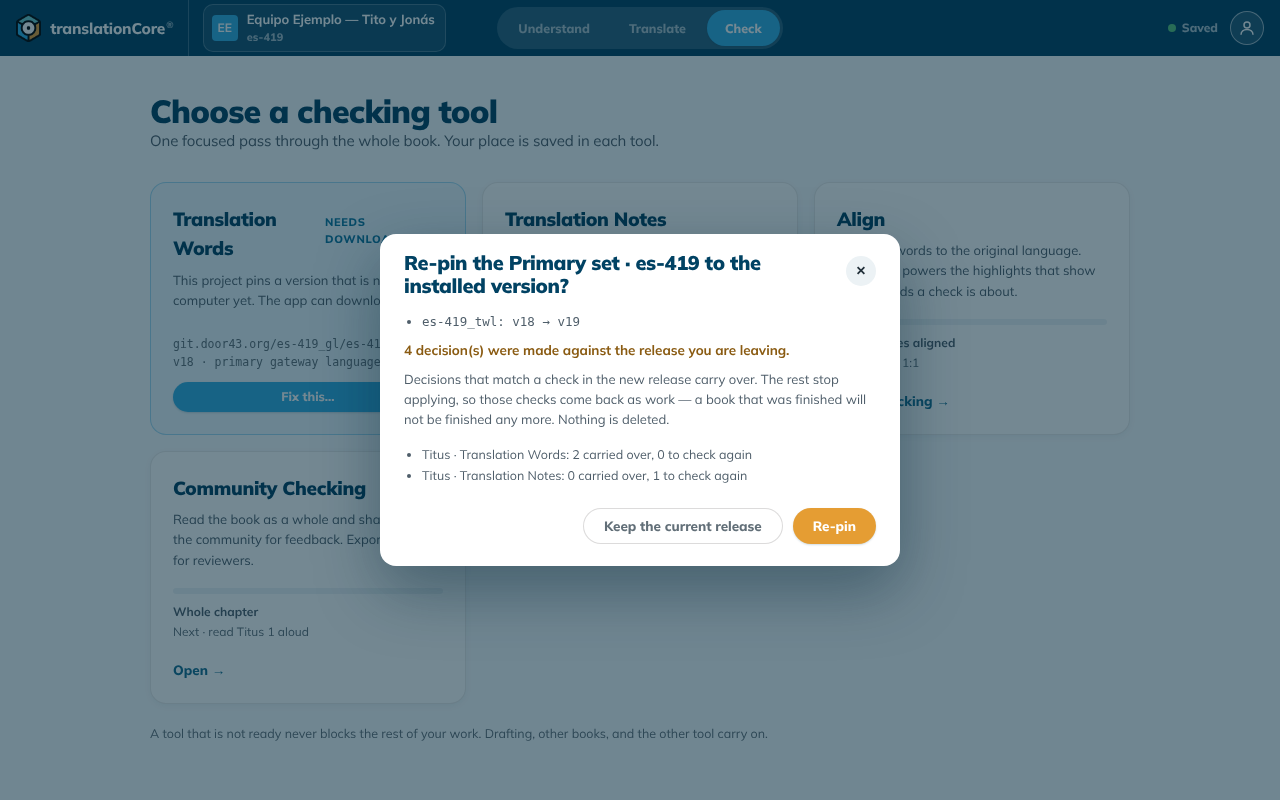
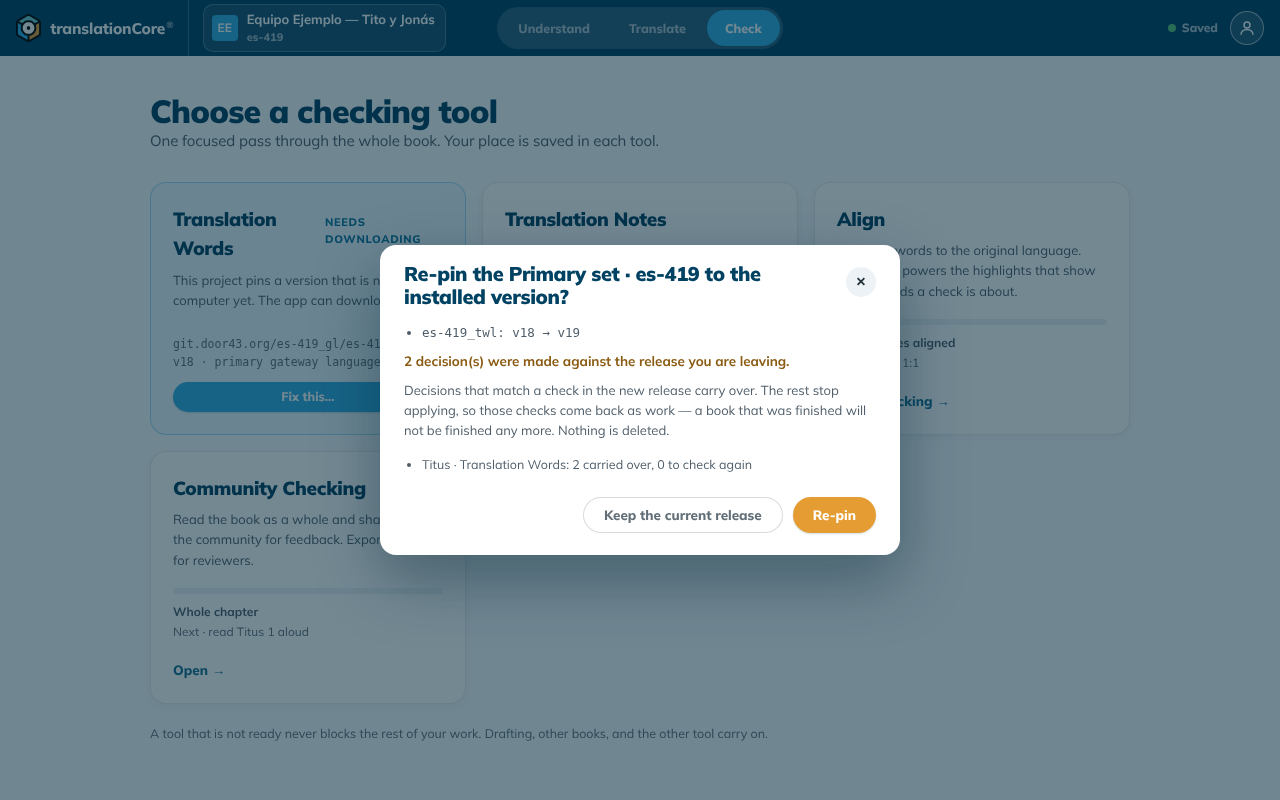
Compute M9's upgrade confirmations by tC4's own rules, so a case shows work only for the checks its offer moves
The verification found that upgrade-repin, a re-pin that moves only the es-419 TWL pin, showed
a Translation Notes row with a check to redo and "4 decision(s)": its consequences and plan were
the recorded gateway change's, copied whole. tC4 builds them with planResourcesChange over the
pins after the offer (state.jsx:1521-1527, 4425-4482), and a TWL move leaves the tN pin and its
checks alone, so tC4 cannot draw that row. The same copy had two more states tC4 cannot reach:
upgrade-set-harmless was green over a move of the tN and TWL pins that the sample's decisions
were made against, and upgrade-set-blocked gave its blocked entry a carry-over row, which
gatewayChangePlan never plans.

Every M9 set preview now comes from one builder (setPreview) that uses tC4's own code, bundled
by patch-kit.mjs: applyUpgrade for the pins after the offer, consequencesOfGatewayChange over
the sample's stored decision files (read as storedGatewayDecisions reads them) for the
consequences, reposOfSet for the offers, and a plan row for each affected (tool, book) that is
not blocked. Only the carry-over counts of a row are still borrowed from the recorded gateway
change, because they need the new release's checks and the mock holds no newer release.
- upgrade-repin: one row, Titus's Translation Words, 2 decisions.
- upgrade-set-harmless: the offer moves es-419 tA alone, which no check resolves through.
- upgrade-set-blocked: Titus is blocked for Translation Words because the es-419 tW articles
[…]

Changed region(s): [[0.2812, 0.2812, 0.7188, 0.7188]]

diff --git a/docs/APP-DESIGN.md b/docs/APP-DESIGN.md
@@ -2494,7 +2494,7 @@ This breakdown was checked again after the red team *(A-16, A-17)*:
 | A5 Shell chrome and static surfaces | `App`, TopBar (X1), save indicator (X2), account menu (X6), M15, M16 with preview, M17 with License, M14 compose, S13 with vendored help pages (AD29) and the page-swap shim, S15 | A3, A4a, A4b, A6b | — | scenarios: account-menu keyboard, M16 preview and restore, help a–i (no internet case yet) | dialog DOM parity for `account-menu`, `app-language`, `help`, `about`, `feedback` (layer 2, through A6b) |
 | A6a Parity harness: tC4 side *(A-17)* | the `capture.mjs` split (`screens`, `driver`, `observe`, `env-tc4`); sha256 per PNG in `manifest.json` and its check; tC4 DOM snapshots for all 62 screens; `state.mjs` from the repository's fixtures | — (the tC4 checkout) | — | `state_from_repo_equals_state_from_tc4`; the baseline test fails on a changed PNG | a tC4 recapture after the split has identical hashes; the 62 DOM snapshots are committed |
 | A6b Parity harness: Rust side and gate *(A-17)* | `env-rust.mjs` (`tc4 serve`, token header, `test/reset`, `test/quiet`, event stream left out of `trackRequests`); the four-layer compare tool; `masks.json`, `report.json`, `residuals.json`; `screen_record.rs` *(A6b: built. D1: the four-layer compare is Rust code inside the gate, `crates/tc-ui/tests/screen_record/`, which recomputes every layer from the committed captures on each `cargo test` and fails when the committed `report.json` differs (`UPDATE_REPORT=1` rewrites it), so a planted difference fails `cargo test` itself and the report cannot be stale; Node only captures (`capture-rust.mjs`, `behaviour.mjs`) (§7.1, §7.5). D2: a pixel counts when any channel byte differs, which is pixelmatch's count at threshold 0 on opaque screenshots and equalled it on all 62 cloud/Linux pairs (§7.3). D3: the committed baseline did not reproduce on the Linux PC (57 of 62 PNGs differ by fonts, no DOM differs), so A6b recaptured it there, and both captures record a machine fingerprint (platform, Chromium, the sha256 of the sorted `fc-list` lines); pixels compare only between equal fingerprints (§7.3, §7.9, risk 8). D4: generated ids are `tc-(f\|g\|dlg\|cfm\|rg)N`, tC4's five counters; `tc-[fg]N` missed `tc-dlg`, on every dialog (§7.3). D5: only same-origin asset paths are reduced to their file name, so a wrong external link still shows (§7.3). D6: two more statuses, `unported` (with the unit that captures each missing layer, from §7.6) and `failed` (nothing excuses it), and `parity/app/units.json` lists the landed units because CI checks out one commit; the gate fails a layer still missing after its unit landed (§7.5). D7: `pending_until` of an M+S screen is its Recapture unit; §7.6's notes gave it for two of the five (§7.5, §7.6). D8: a DOM-first capture compares only the subtree that `scopes.json` names, because the Home behind its dialog is not ported until its pixels unit (§7.3, §7.6). D9: the Rust `home()` is `test/reset`, `prefs/setLocale` for another language, cleared storage and a load through `about:blank`, and `settle` also asks `test/quiet` and `__tcIdle`, polling them once busy (§7.1). D10: the context aborts every request to another origin, so the token in `extraHTTPHeaders` never leaves the machine (§7.1). D11: `open-door43-internet-consent` shows the Q3 note behind its scrim, so it now cites Q3 in the baseline and the `q3-where` mask covers it: nine `rebuildDiffers` screens, eleven masked screens (§7.3, §7.6). D12 (verification): a residual names exactly the layers its row differs in, behaviour among them, so a later difference on another layer of an explained row still fails; and a Rust screenshot of another size than tC4's, a shot at the wrong viewport, is a failed capture that no residual excuses (§7.5). Masks are taken out before ids are renumbered, behaviour node numbers are renumbered per side, the masks' elements take no part in a sequence, `syncToast` is compared field by field (each with a planted test that fails when the rule is broken), and a diff image must be committed and equal what the gate draws. No baseline screen can be captured on the Rust side before B2's Home, so all 62 rows are `unported`; the planted tests prove the gate on the real baseline. Evidence: `docs/evidence/parity-harness-2026-10-18.md`.)* | A6a, A2, A4a | — | the gate fails on a planted pixel, DOM and meaning difference; a screen that reaches the settle deadline fails | the gate runs in `cargo test`, and the planted differences fail it |
-| A7 tC4 view-state gallery | Vite app with the `state.jsx` stub; case format; action recorder; the §7.4 cases *(A7: built. D1: a case starts from a recorded state, the whole `s` of real tC4 read from its React tree after the driver took it against the baseline's mock to a baseline screen or a few steps further, with the replies of the read-only actions the view draws; a patch, tC4's reducer `set` patch, is written only where the mock cannot go, from recorded values and tC4's own functions (`parity/view-gallery/patch-kit.mjs`), never as free text: 23 states, 68 cases in the 18 groups of §7.4's table, 19 drawn from a recorded state with at most view-local steps and 49 patched, `cases.json` naming the keys each patch sets (§7.4, risk 17). D2: calibration draws every recorded state with no patch and compares it with real tC4's own capture at that moment: all 23 equal, pixels byte for byte and DOM after the gate's id renumbering, so the stub adds nothing; focus is the one thing a state drawn afresh lacks, so 11 states carry steps that put it back where the route left it (`refocus` by script with no keyboard ring, or `blur`), replayed by calibration and by the unpatched cases on them (§7.4). D3: the gallery is built by the tC4 clone's own Vite, React plugin, node polyfills and React through a `node_modules` link, in release mode with tC4's base and defines; its CSS is byte-identical to tC4's release build (§7.4). D4: no tc-api reply exists at A7 (`MemoryBackend` is B1b's and a screen's view types its unit's), so A7 defines the slot `parity/view-gallery/replies/<case>.json` and the porting unit fills it (§7.4). D5: a case row names its §7.4 group's DOM and pixels units, has no meaning layer, compares a DOM-first case within its `scope`, compares pixels with the gallery capture's own machine, and is checked by sha256 with stray files refused; new gate rules `CaseGroup`, `CaseScope`, `DuplicateRow` with eight planted tests (§7.5). D6: the stub answers the two actions a view calls while drawing (`sourceGateways`, `installedCountFor`) with tC4's own code; every other action is recorded per case (`actions/<case>.json`) and answered by the case's replies or not at all. D7: before mounting, the capture clicks a full-window layer at the pointer's resting point, so focus a view moves on mount is not drawn as keyboard focus, and the page flags the mount from an effect after React's first commit, so no step races a dialog's mount focus. D8: M18 is drawn only by the section editor, so its group names B4b (B4a's row). D9: `capture-rust.mjs` keeps case entries and captures cases with `--case`; `measure-masks.mjs` leaves case rectangles to the gallery's capture. One value of tC4's state is not JSON, the sign-in step's identity Symbol (`state.jsx` `si.opened`), so it is carried as a tag and revived as a new Symbol, never dropped. Every case renders with no page error, console error, view error or request, two captures are byte-identical, and a fresh capture equals the committed record; `report.json` has 130 rows, all unported. Evidence: `docs/evidence/view-gallery-2026-10-18.md`.)* | A6a, A6b | — | every case renders with no console error; two runs are byte-identical | the cases are rows in `report.json` |
+| A7 tC4 view-state gallery | Vite app with the `state.jsx` stub; case format; action recorder; the §7.4 cases *(A7: built. D1: a case starts from a recorded state, the whole `s` of real tC4 read from its React tree after the driver took it against the baseline's mock to a baseline screen or a few steps further, with the replies of the read-only actions the view draws; a patch, tC4's reducer `set` patch, is written only where the mock cannot go, from recorded values and tC4's own functions (`parity/view-gallery/patch-kit.mjs`), never as free text: 23 states, 68 cases in the 18 groups of §7.4's table, 19 drawn from a recorded state with at most view-local steps and 49 patched, `cases.json` naming the keys each patch sets (§7.4, risk 17). D2: calibration draws every recorded state with no patch and compares it with real tC4's own capture at that moment: all 23 equal, pixels byte for byte and DOM after the gate's id renumbering, so the stub adds nothing; focus is the one thing a state drawn afresh lacks, so 11 states carry steps that put it back where the route left it (`refocus` by script with no keyboard ring, or `blur`), replayed by calibration and by the unpatched cases on them (§7.4). D3: the gallery is built by the tC4 clone's own Vite, React plugin, node polyfills and React through a `node_modules` link, in release mode with tC4's base and defines; its CSS is byte-identical to tC4's release build (§7.4). D4: no tc-api reply exists at A7 (`MemoryBackend` is B1b's and a screen's view types its unit's), so A7 defines the slot `parity/view-gallery/replies/<case>.json` and the porting unit fills it (§7.4). D5: a case row names its §7.4 group's DOM and pixels units, has no meaning layer, compares a DOM-first case within its `scope`, compares pixels with the gallery capture's own machine, and is checked by sha256 with stray files refused; new gate rules `CaseGroup`, `CaseScope`, `DuplicateRow` with eight planted tests (§7.5). D6: the stub answers the two actions a view calls while drawing (`sourceGateways`, `installedCountFor`) with tC4's own code; every other action is recorded per case (`actions/<case>.json`) and answered by the case's replies or not at all. D7: before mounting, the capture clicks a full-window layer at the pointer's resting point, so focus a view moves on mount is not drawn as keyboard focus, and the page flags the mount from an effect after React's first commit, so no step races a dialog's mount focus. D8: M18 is drawn only by the section editor, so its group names B4b (B4a's row). D9: `capture-rust.mjs` keeps case entries and captures cases with `--case`; `measure-masks.mjs` leaves case rectangles to the gallery's capture. D10 (verification): an M9 case's confirmation of a set upgrade or re-pin is computed by tC4's own rules from the offer: the pins after it (`applyUpgrade`) and the consequences (`consequencesOfGatewayChange` over the sample's stored decision files), so a row appears exactly for a check whose resource the offer moves, and a carry-over row for each one not blocked; a test holds the drawn confirmations to that rule. Three things are taken, not drawn: each new release covers the books of the one it replaces, the machine holds the releases the checks resolve through unless the case blocks one, and the carry-over counts of each row, which need the new release's checks, are borrowed from the recorded gateway change for the same (tool, book), since the mock holds no newer release (risk 17). One value of tC4's state is not JSON, the sign-in step's identity Symbol (`state.jsx` `si.opened`), so it is carried as a tag and revived as a new Symbol, never dropped. Every case renders with no page error, console error, view error or request, two captures are byte-identical, and a fresh capture equals the committed record; `report.json` has 130 rows, all unported. Evidence: `docs/evidence/view-gallery-2026-10-18.md`.)* | A6a, A6b | — | every case renders with no console error; two runs are byte-identical | the cases are rows in `report.json` |
 | A8 Door43 account and internet consent | `account` service: sign-in with `mint_token` against tc-door43-fake, keep, resume, forget; `cancelSignIn`; "no keychain"; M12; the internet question flow (`InternetFlow`, `Pending`) | A3, A5 | — | sign-in cases of J11; internet-consent a–j that need no project | DOM parity for `share-signin`, `share-internet-consent`, `open-door43-internet-consent` |
 | A9 First-launch seeding | the join of A2 and A3 (order paragraph), if no earlier unit made it; **tc-resources**: progress and cancel hooks in bundle seeding, with that crate's own tests; the `Seed` job; `Startup` events; `/prepare.html` with English text and the other nine languages listed as pending (Q-10) *(A-17, A-32)* *(A9: built. D1: the plan is made at start, from receipts alone, inline in `App::start`, so `hello.startup` is exact from the first request (`Ready`, with no job, frame or report, when nothing is missing; `Preparing { 0, total }`; `Failed`), and without `--bundle` nothing is seeded. D2: tc-resources gets `seed_plan`, `seed(plan, &dyn SeedWatch)`, `Seeding::{Finished, Cancelled}` and `content_files_written()`; `seed_from` is the same two steps with a watch that never stops. D3: the count is content files, not tC4's 16 resources (declared difference, §3.6). D4: the `Startup` frames follow the `Seed` job's reports through `JobRegistry::watch` and only move forward, and the ring keeps the newest `Startup(Preparing)`. D5: Close is a quit, and `App::quit` cancels the seed and waits for it; a stop leaves whole copies, and the copy being made stays in `.partial/` until the next start. D6: a bundled install that fails its own check, a copy that cannot be trusted, a bundle that cannot be read and a bundle that lacks an install its manifest lists (D12) end the start `Failed`, and the window shows tC4's failure words with the reason; tC4 shows a native error box and exits, so this is a declared difference, and the screenshot goes to the owner under Q-9; tc-resources keeps its rule that a refused install does not stop `seed_from`. D7: `/prepare.html` is one file, `crates/tc-ui/app/prepare.html`, holding the `prepare.*` text of all ten languages (nine pending, Q-10) and one script that its own CSP allows by hash; `crates/tc-ui/tests/prepare_page.rs` keeps both equal to the rebuild files. D8: `tc4 serve --bundle <dir>`, and with `test-hooks` `--test-seed-pace <ms>`. D9: the installer still ships an expanded store, built from `bundle/en` by `crates/tc-app/examples/bundle_store`, which also writes the store's `BUNDLE-MANIFEST.json` (D12); seeding from the archives stays DELTA §3.6 item 3. D10: the shell (G1) opens the window only when `hello.startup` is still `Preparing` 300 ms after launch, so a repeat launch shows none, a declared difference from tC4, which shows it on every launch; A5's `App` sends a page that boots while it is not `Ready` to `/prepare.html` (§5.3). D11 *(added after the first verification)*: `App::start` opens the resource store with `ResourceStore::open_keeping_leftovers`, so a `.partial/` leftover that cannot be removed is a `resources` report and not a refusal to start (§4.9); `ResourceStore::open` still refuses it for other callers, except a leftover that a scanner still holds after the waits of STORAGE §3.7, which it keeps for the next open. D12 *(added after the first verification)*: a bundle says what it holds. The build of the bundle writes `BUNDLE-MANIFEST.json`, naming each install by repository and commit, and the plan compares it with the folders (§4.6): a listed install that is neither in the bundle nor on this computer, or a folder with no usable manifest, ends the start `Failed` at once and copies nothing. tC4 does the same with its `BUILD-MANIFEST.json` (`tC4:scripts/desktop-bootstrap.cjs:230-290`), so this is no declared difference; without it a lost install folder, or a `--bundle` that named the wrong folder, ended `Ready` and opened projects that could not find their helps. D13 *(added when A9 merged with windows-hazards)*: a seeded copy is an install like a download, through the same `install_until`: every file name is checked by `tc_door43::check_names` (STORAGE §3.7), a file is written with `create_new`, and the rename into place waits while a scanner holds a file, unless the same install has landed meanwhile. A bundled install with a file name Windows would rename or merge is therefore refused, left out of the store and named in `refused`, which ends the start `Failed` (D6). `seed_plan` runs the same check of paths and names on the receipt of each bundled install it will copy, and refuses it the same way before any of its files is read, so a device name in a receipt is never opened as the device and a `../` path never reads a file outside the bundle. The staging folder of an install that `create_new` refuses is removed with the same waits as the rename. An install that finds the same install landed first tries once to remove its staging folder and does not wait, since the install it lost to is in place; what a scanner holds then stays in `.partial/` until a later open removes it. `open_keeping_leftovers` removes `.partial/` with the same waits, and a leftover a scanner holds even then comes back as a `resources` report (D11). Evidence: `docs/evidence/first-launch-seeding-2026-10-18.md` (on the Linux PC: first launch 14.8 s median, repeat launch 4.1 ms, `App::quit` in a seed 4.6 ms; the Windows figure is G1's and G2's) and `crates/tc-ui/app/prepare-smoke.mjs`. A4a merged after A9 and added to `crates/tc-ui/build-app.sh` the copy of `app/prepare.html` to `OUT/prepare.html`, which A4a's smoke checks byte for byte through `tc4 serve`; A4a's key scan checks only that each key the Rust source names exists, never that each rebuild key is used, so the page's `prepare.*` keys need no entry there, and `prepare_page.rs` keeps them equal to the rebuild files.)* | A2, A3 | Q-10 for the translations | seeding count targets (PERF:133-138); cancel leaves a resumable state; tc-resources' tests stay green | Playwright: the window shows "Preparing resources: n of total" and Close cancels |
 | A10 tc-export print model *(A-17)* | the **new crate `tc-export`**, pure, over tc-obs: ports of `printedItems` (`tC4:src/data/bookModel.js`), the print parts (`tC4:src/views/print/PrintBook.jsx:44-71`) and `PrintStories.jsx`, and the page setup; a typed model, no HTML yet. A book's input is its verse rows (label, drafted, shown text), the rows the editor's `VerseRow` is built from, not a second reading of the USFM: tC4 builds the editor and the PDF from one `bookModel` so that both state a verse the same way (`tC4:src/data/bookModel.js:1-4`), and the port of tC4's shown text is tc-usfm's `shown_text_v1`. tc-usfm joins with D2's USFM producers. Declared difference: the "Incomplete draft" notice shows whenever a verse prints as not yet drafted (`has_undrafted`); tC4 asks only for an undrafted verse (`tC4:src/views/CommunityChecking.jsx:182`), so a verse drafted with a footnote alone prints "[ verse not yet drafted ]" with no notice to explain it | — | — | vectors recorded by running tC4's functions in node on the Titus, Jonah and OBS samples, tC4's PDF test cases and generated books and story sets, compared as the markup tC4's print components render, the preview's split pages included; a proptest that every drafted verse appears once, and one for frames | the vectors are equal |
@@ -2649,7 +2649,11 @@ last.
     tC4 side a case starts from a state recorded from tC4 itself, and calibration shows the
     gallery draws each recorded state as tC4 did; only the 49 patched cases of 68 hold values
     written for them, each built with tC4's own functions where one exists, and `cases.json`
-    names the keys each patch sets *(A7)*.
+    names the keys each patch sets *(A7)*. The carry-over counts of M9's set upgrades and
+    re-pin are borrowed from the recorded gateway change, an operation that moves the same
+    checks to other releases, because the mock holds no newer release to derive them from, so
+    C8's replies for those cases carry the same borrowed counts, and a count that differs there
+    is a fixture difference, not a port bug.
 18. **Storage requests outside every task text.** R1, R4, R5, R14, R16 and R19 to R23 are in no
     storage unit's task text today. If they stay out, C0 is larger, R9's numbers may come late,
     and three fallbacks (R20, R21, R23) are weaker than the requests. Only the owner can add them

diff --git a/docs/evidence/view-gallery-2026-10-18.md b/docs/evidence/view-gallery-2026-10-18.md
@@ -118,3 +118,31 @@ The distinct actions of each group's traces at `mount` (no case's steps call an 
   with exactly one of mine, in any order.
 - `capture-rust.mjs` dropped case entries when it rewrote `captures.json`, and
   `measure-masks.mjs` crashed on a rectangle named after a case; both are fixed.
+
+## After the verification (2026-10-19)
+
+The verification found that `upgrade-repin` showed a Translation Notes row with work to redo for
+a re-pin that moves only the TWL pin: its consequences and plan were the recorded gateway
+change's, copied whole. The same copy made `upgrade-set-harmless` green over a move of the tN and
+TWL pins that the sample's decisions were made against, and gave the blocked entry of
+`upgrade-set-blocked` a carry-over row, which tC4 never plans for a blocked entry. Each M9 set
+preview is now computed by tC4's own rules (`patch-kit.mjs` bundles `consequencesOfGatewayChange`,
+`applyUpgrade`, `reposOfSet` and `TOOL_SLOT`); only the carry-over counts of a row are borrowed
+from the gateway change, and the design says so (APP-DESIGN §10 A7 D10, risk 17).
+
+- `upgrade-set-harmless` now moves es-419 tA alone, which no check resolves through;
+  `upgrade-set-blocked` blocks Titus for Translation Words, whose es-419 tW articles are not on
+  the machine (tC4 #643), with no carry-over row for it.
+- tC4's rule over `fixtures/tc4/sample-burrito/ingredients/checking` gives exactly the recorded
+  gateway change's consequences, so the patches read the files tC4 counted.
+- `capture.mjs` (every case, load 5.0): 23 of 23 states calibrated; the PNG and DOM files of
+  `upgrade-repin`, `upgrade-set-harmless` and `upgrade-set-blocked` changed and every other file
+  is byte-identical, `upgrade-set` and `upgrade-set-error` included (their previews differ only
+  in values no view draws: `next`, and the fallback offer's `current`). The six files went from
+  591,445 to 584,667 bytes.
[2 lines of base64/hex data omitted]
+- `node --test parity/view-gallery/view-gallery.test.mjs` with `TC4_ROOT`: 19 tests, 19 passed in
+  6 min 22 s (two captures byte-identical, the first equal to the committed record); without it,
+  14 passed and 5 skipped. `cargo test -p tc-ui --test screen_record`: 43 tests.
+- Commit `baee60f`'s message says "nine planted tests"; it added eight, as the design says.
